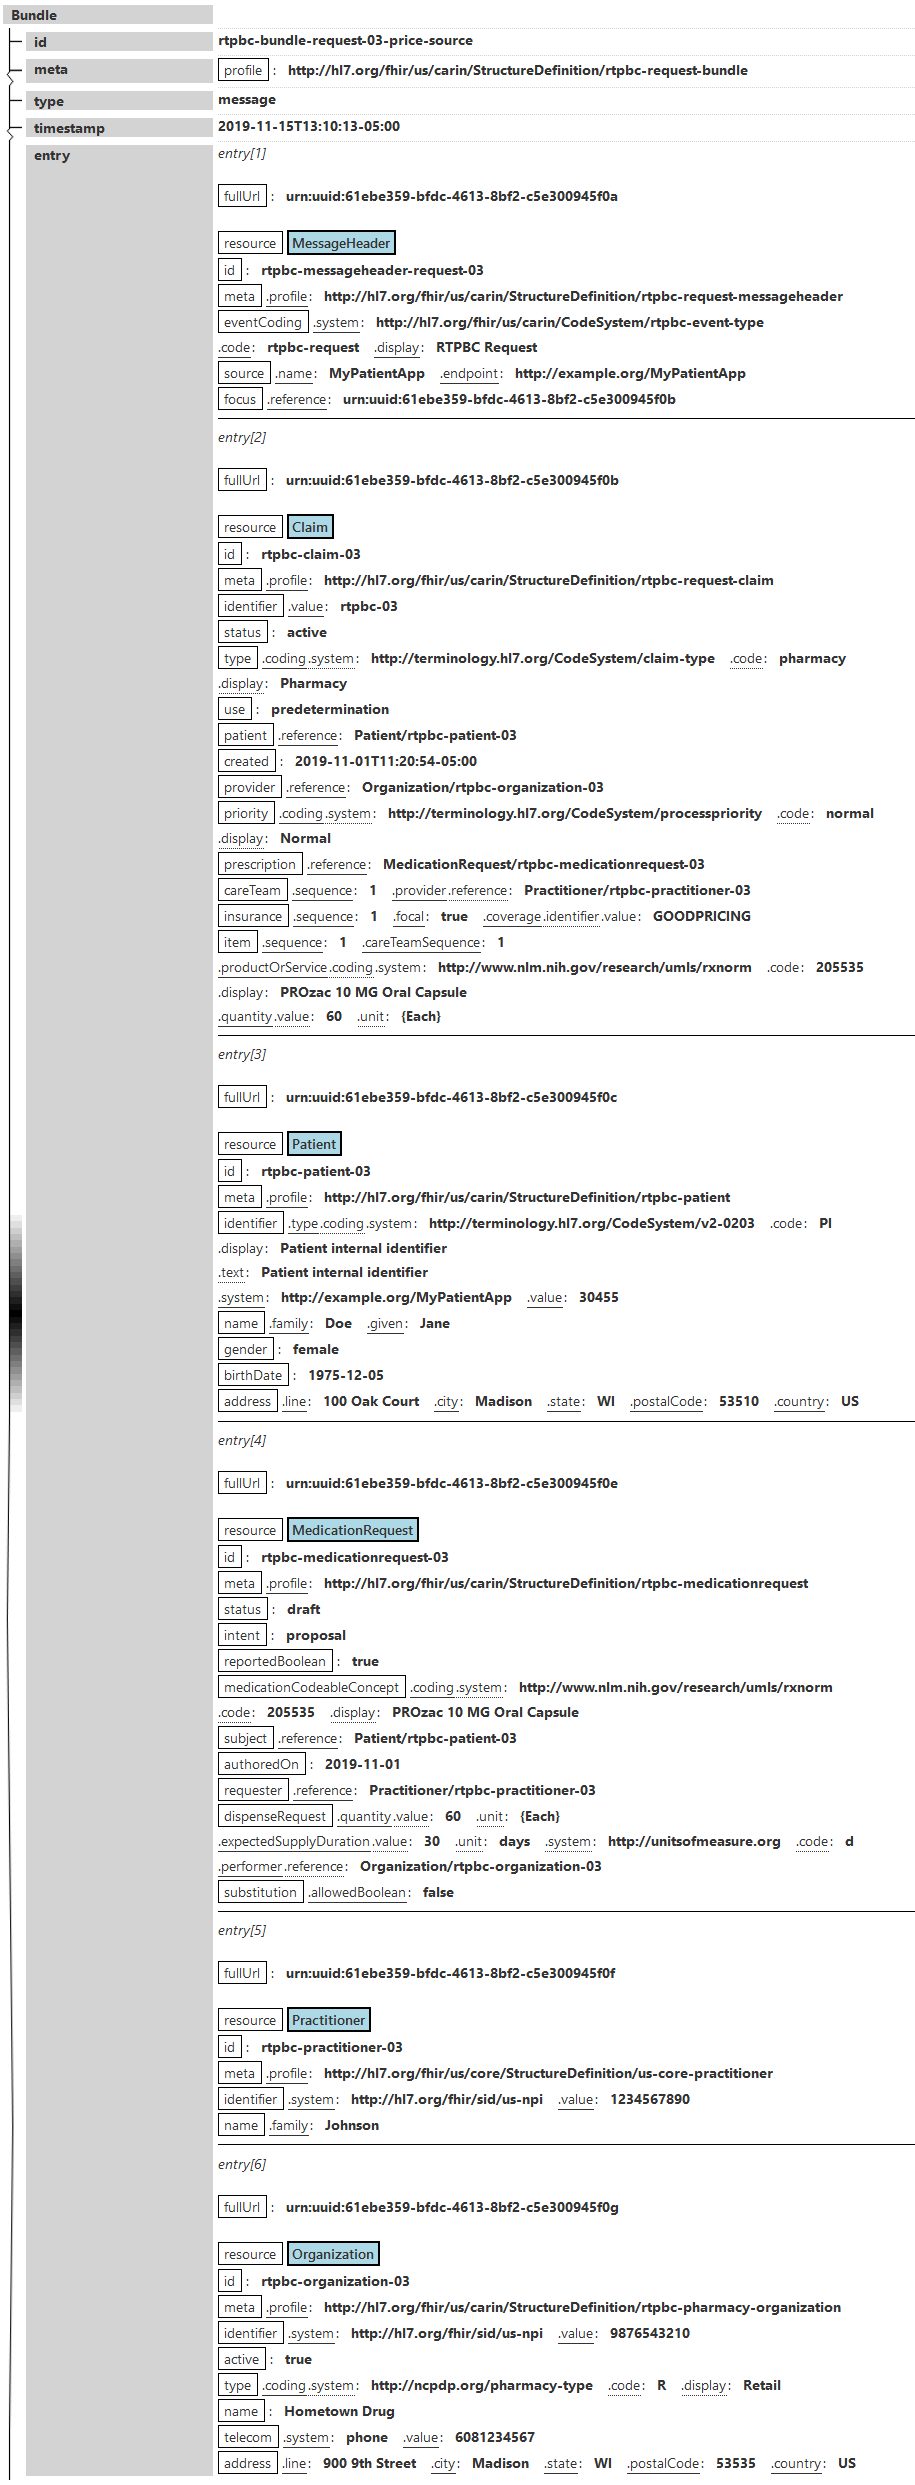
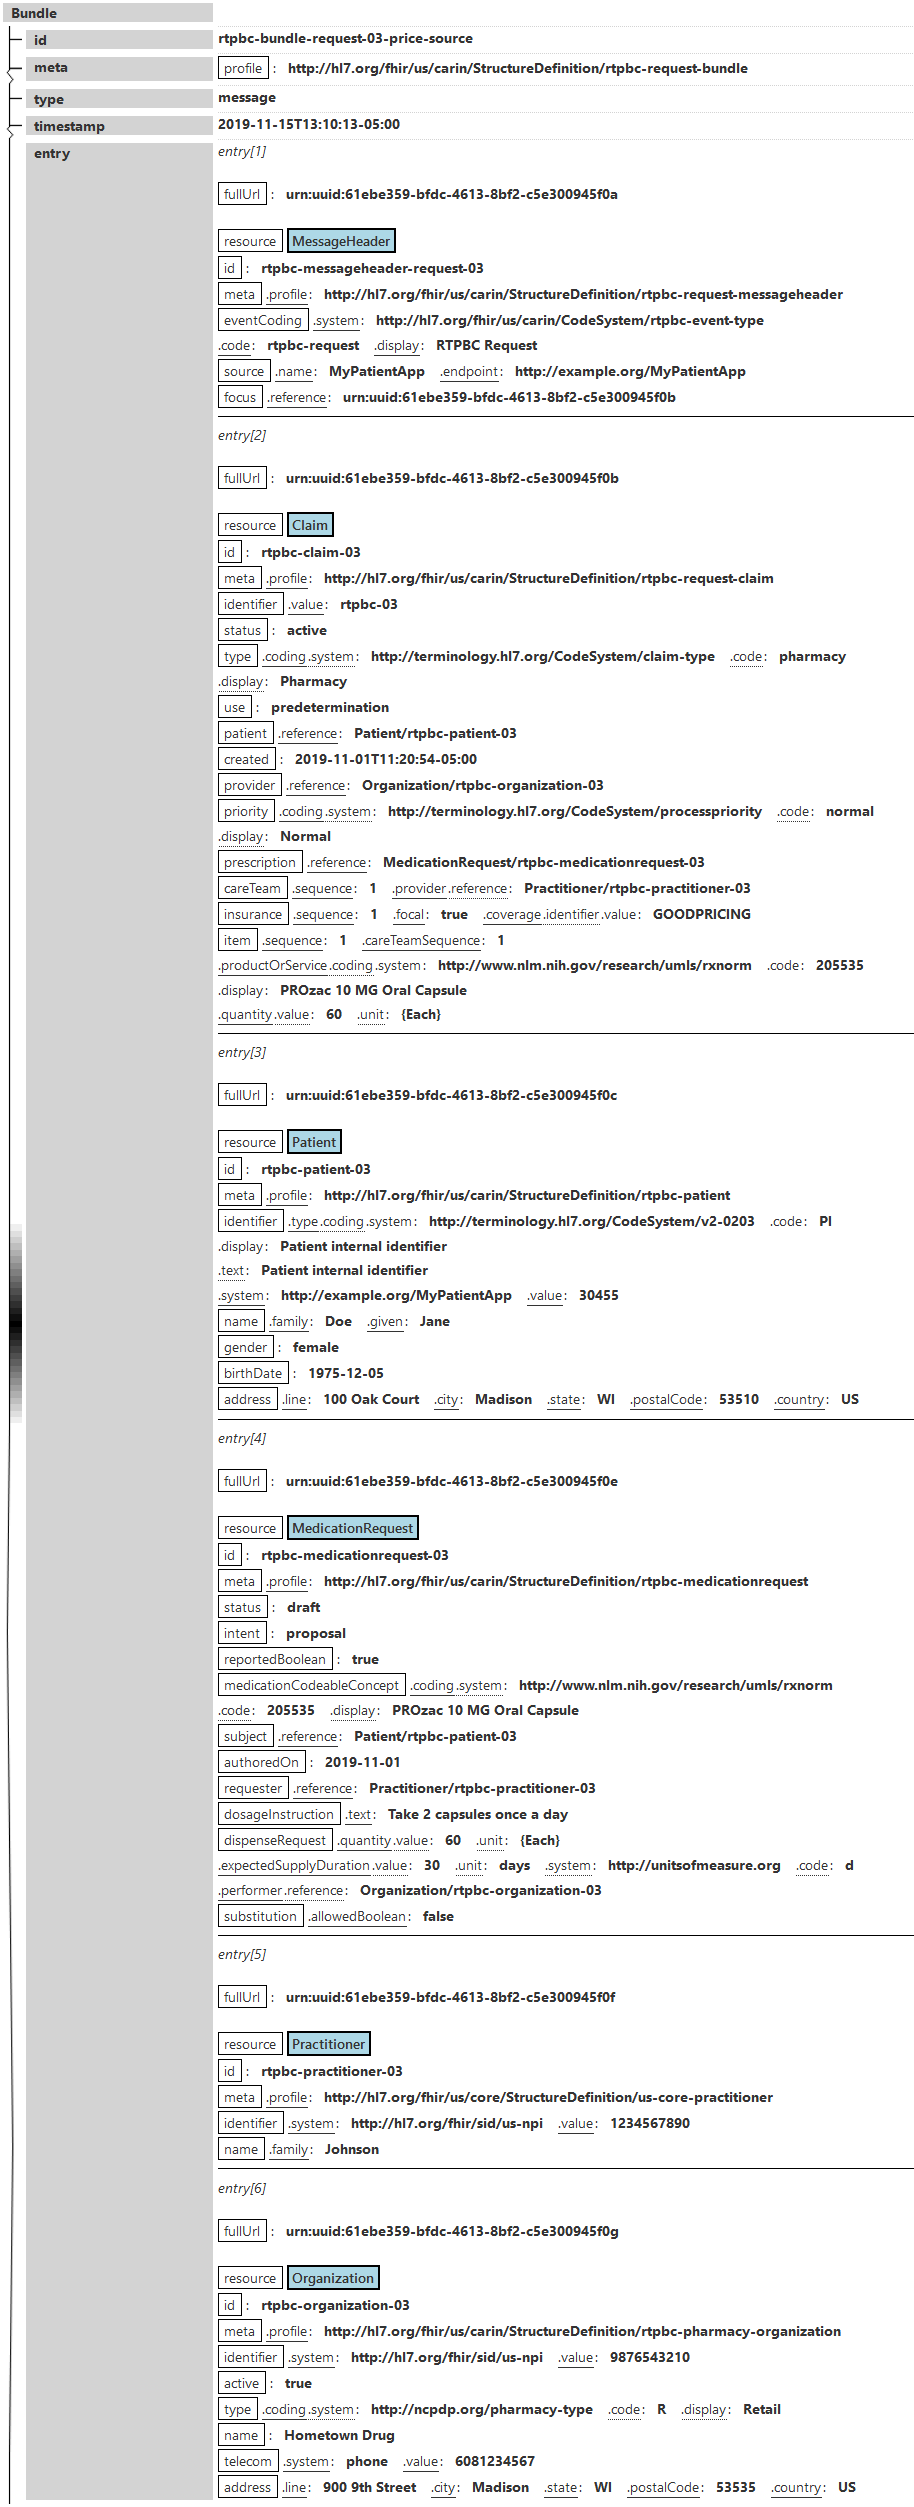
Added dosageInstruction to examples

diff --git a/input/pages/StructureDefinition-rtpbc-response-claimresponse-intro.md b/input/pages/StructureDefinition-rtpbc-response-claimresponse-intro.md
@@ -1,5 +1,5 @@
 <br><br>
-Data population is similar to a typical *predetermination* ClaimResponse request (where the corresponding Claim.use was set to "predetermination"), with the following key differences:
+Data population is similar to a typical *predetermination* ClaimResponse (where the corresponding Claim.use was set to "predetermination"), with the following key differences:
 
 * in addition to cost and coverage for the requested medication and pharmacy, the responder may also return information about alternative medication + pharmacy combinations. These alternatives are conveyed in one or more ClaimResponse.addItem composites, characterized as independent options using an extension defined in this guide ([isAlternative](StructureDefinition-rtpbc-isAlternative.html)) 
 * the [benefitRestriction](StructureDefinition-rtpbc-benefitRestriction.html) extension is used to communicate the level at which the requested drug and pharmacy are covered, as well as alternative drug/pharmacy combinations (using high-level, pre-defined [benefit restrictions](ValueSet-rtpbc-benefit-restriction.html) tailored to the patient's perspective)

diff --git a/input/pages/information_content_and_fhir_resources.md b/input/pages/information_content_and_fhir_resources.md
@@ -53,7 +53,7 @@ The consumer RTPBC request and response are accomplished using FHIR **Claim** an
 
 **[MedicationRequest](StructureDefinition-rtpbc-medicationrequest.html)** - Conveys the needed prescription information (a subset of what is present in a full prescription)
 
-**[Organization (Pharmacy)](StructureDefinition-rtpbc-pharmacy-organization.html) ** - Conveys pharmacy information needed for the exchange (based on the US Core Organization profile)
+**[Organization (Pharmacy)](StructureDefinition-rtpbc-pharmacy-organization.html)** - Conveys pharmacy information needed for the exchange (based on the US Core Organization profile)
 
 **Practitioner** - Prescriber information is conveyed using the US Core Practitioner profile.
 
